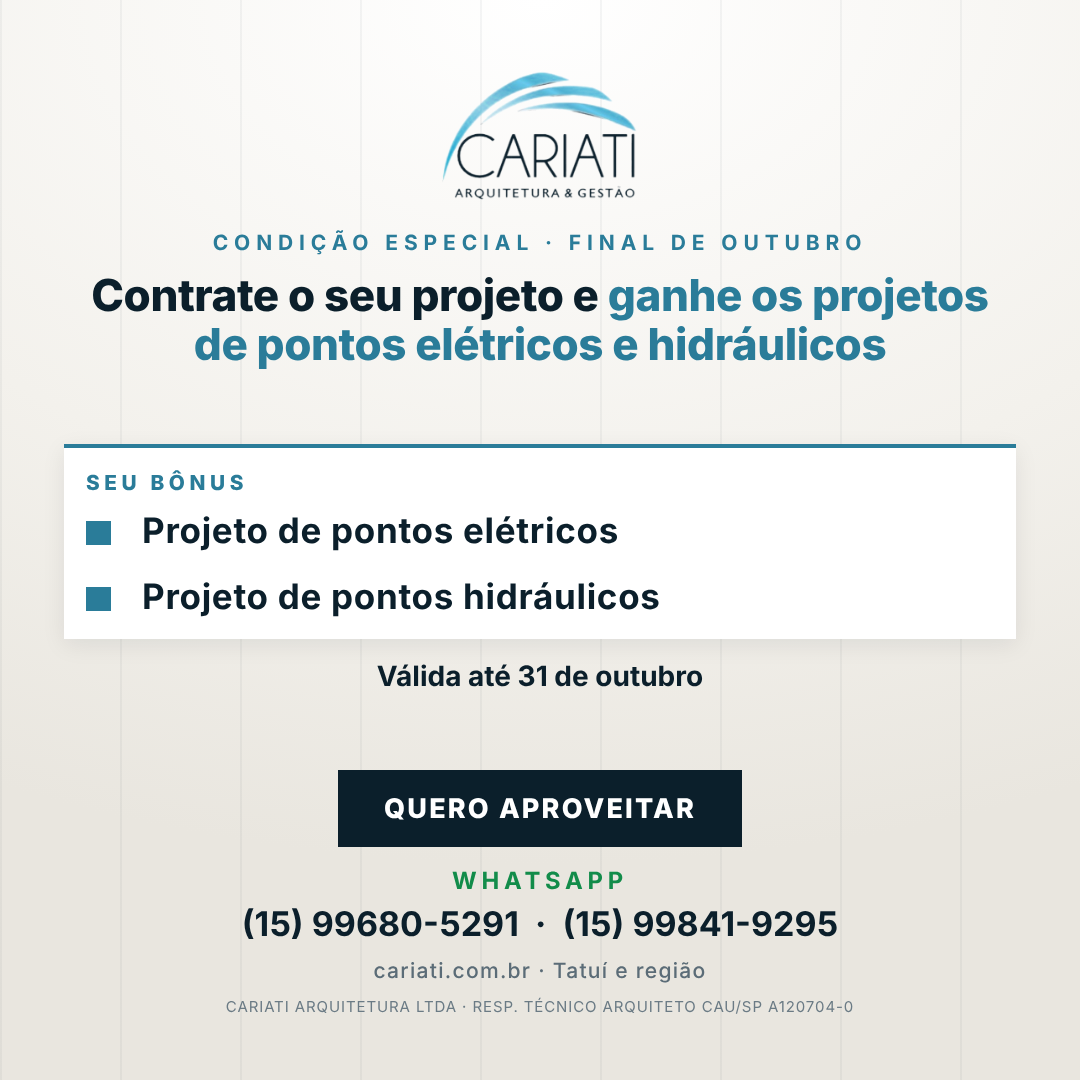
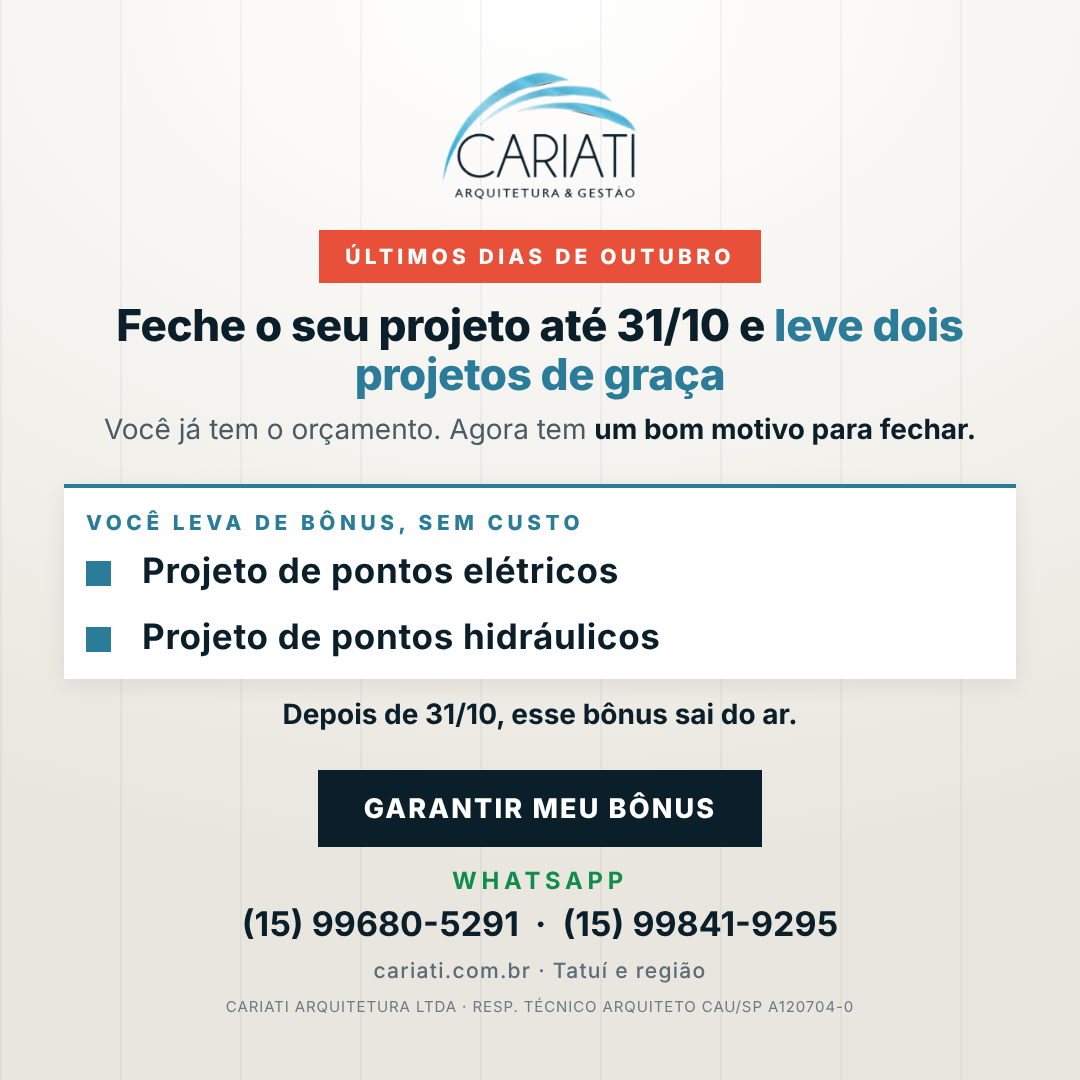
Promo creative: stronger persuasion (urgency, free bonus, loss aversion)
Claude-Session: https://claude.ai/code/session_012W4cPJrLBDcgKi33Cw4yCm

Changed region(s): [[0.0611, 0.2139, 0.9472, 0.6722], [0.275, 0.7028, 0.7028, 0.7944]]

diff --git a/flyers_cariati/build.py b/flyers_cariati/build.py
@@ -38,6 +38,7 @@ h1 em{font-style:normal;color:#5fc1e3}
 .light .bg:after{background:linear-gradient(180deg,rgba(247,245,240,.68),rgba(247,245,240,.78) 45%,rgba(240,237,230,.96))}
 .dh{font-size:var(--dh)}
 .light .card p{color:#0b1f2b}
+.urg{display:inline-block;background:#e8503a;color:#fff;font-weight:800;letter-spacing:.2em;text-transform:uppercase;font-size:var(--e);padding:14px 26px}
 .grid3{display:grid;grid-template-columns:1fr 1fr 1fr;gap:var(--g3)}
 .card{background:rgba(255,255,255,.05);border-top:4px solid #5fc1e3;padding:var(--cd)}
 .card .l{font-size:var(--cl);font-weight:800;color:#5fc1e3}
@@ -164,14 +165,14 @@ def dica(n,hook,corpo,pratica):
 def fpromo(vert):
     bonus=lambda t:f'<li>{t}</li>'
     bl=bonus("Projeto de pontos elétricos")+bonus("Projeto de pontos hidráulicos")
-    box=f'<div class="card z promo" style="text-align:left"><div class="l" style="letter-spacing:.22em;font-size:calc(var(--cl)*.8)">SEU BÔNUS</div><ul class="list" style="margin-top:14px">{bl}</ul></div>'
-    badge='<div class="eyebrow z">Condição especial · Final de outubro</div>'
-    h='<h1 class="z" style="font-size:var(--ph);line-height:1.12">Contrate o seu projeto e <em>ganhe os projetos de pontos elétricos e hidráulicos</em></h1>'
-    intro='<p class="sub z">Você pediu um orçamento com a gente. Preparamos uma condição para fechar ainda em outubro.</p>'
-    valid='<div class="sub z" style="font-size:var(--s)"><b>Válida até 31 de outubro</b></div>'
+    box=f'<div class="card z promo" style="text-align:left"><div class="l" style="letter-spacing:.22em;font-size:calc(var(--cl)*.8)">VOCÊ LEVA DE BÔNUS, SEM CUSTO</div><ul class="list" style="margin-top:14px">{bl}</ul></div>'
+    badge='<div class="z" style="align-self:center"><span class="urg">Últimos dias de outubro</span></div>'
+    h='<h1 class="z" style="font-size:var(--ph);line-height:1.12">Feche o seu projeto até 31/10 e <em>leve dois projetos de graça</em></h1>'
+    intro='<p class="sub z">Você já tem o orçamento. Agora tem <b>um bom motivo para fechar.</b></p>'
+    valid='<div class="sub z" style="font-size:var(--s)"><b>Depois de 31/10, esse bônus sai do ar.</b></div>'
     if vert:
-        return L+sp(40)+badge+sp(26)+h+sp(30)+intro+flex()+box+sp(34)+valid+flex()+'<div class="cta z">Quero aproveitar</div>'+sp(36)+PH+sp(28)+FOOT
-    return L+sp(26)+badge+sp(16)+h+flex()+box+sp(18)+valid+flex()+'<div class="cta z">Quero aproveitar</div>'+sp(16)+PH+sp(10)+FOOT
+        return L+sp(40)+badge+sp(34)+h+sp(30)+intro+flex()+box+sp(34)+valid+flex()+'<div class="cta z">Garantir meu bônus</div>'+sp(36)+PH+sp(28)+FOOT
+    return L+sp(26)+badge+sp(18)+h+sp(10)+intro+flex()+box+sp(16)+valid+flex()+'<div class="cta z">Garantir meu bônus</div>'+sp(16)+PH+sp(10)+FOOT
 FL=[("01_tudo_em_um_so_lugar",f1),("02_400_obras",f2),("03_metodo_ppg",f3),("04_vamos_conversar",f4),("05_financiamento_caixa",f5),("06_equipe",f6),("07_gestao_de_obras",f7),("08_projetos_e_equipe",f8)]+[(f"dica_{d[0]}",dica(*d)) for d in DICAS]+[("promo_outubro",fpromo)]
 import json
 jobs=[]
